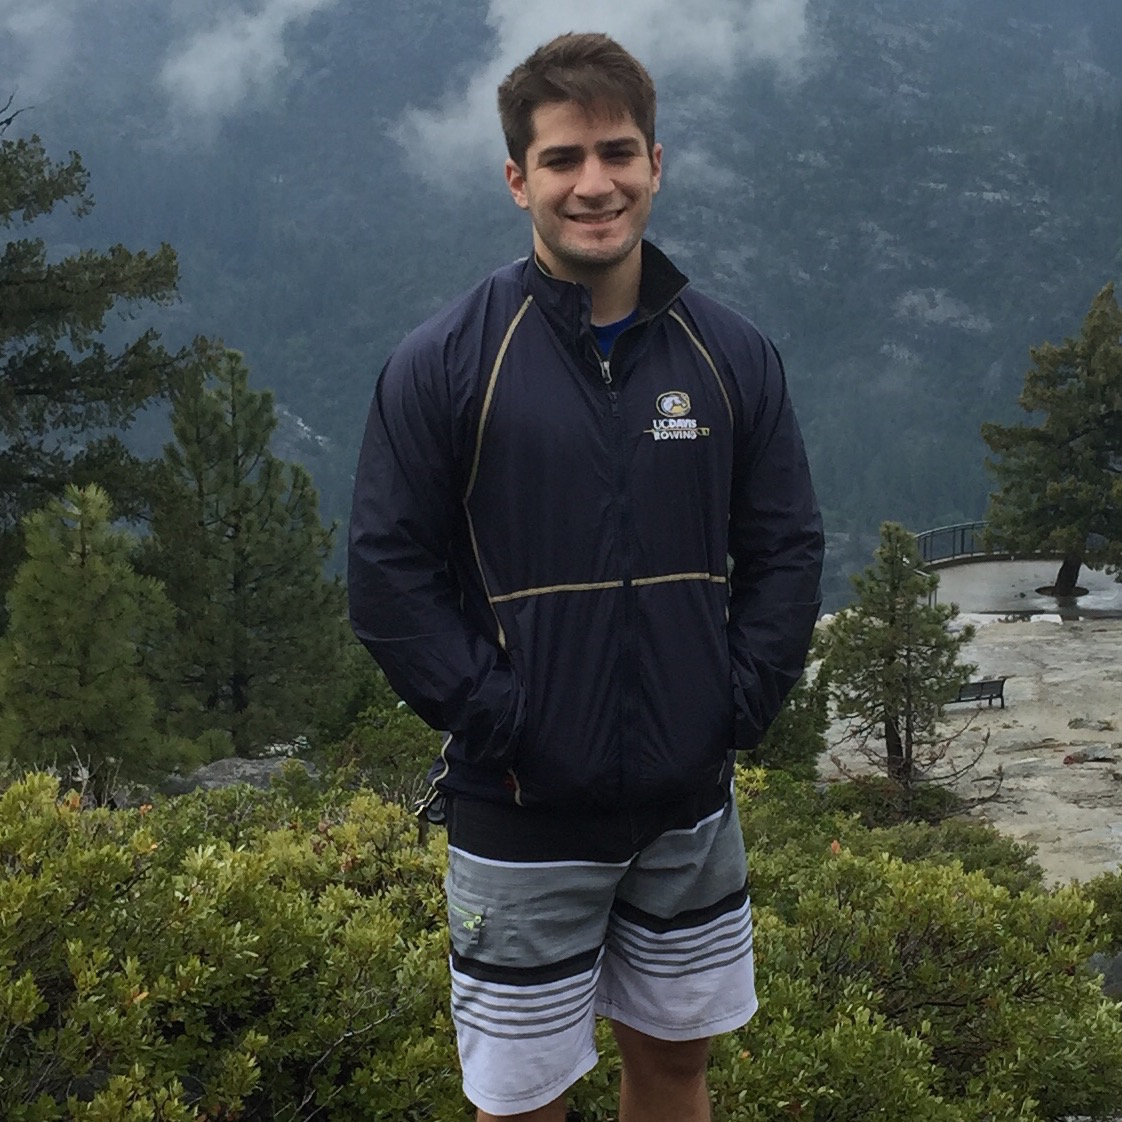
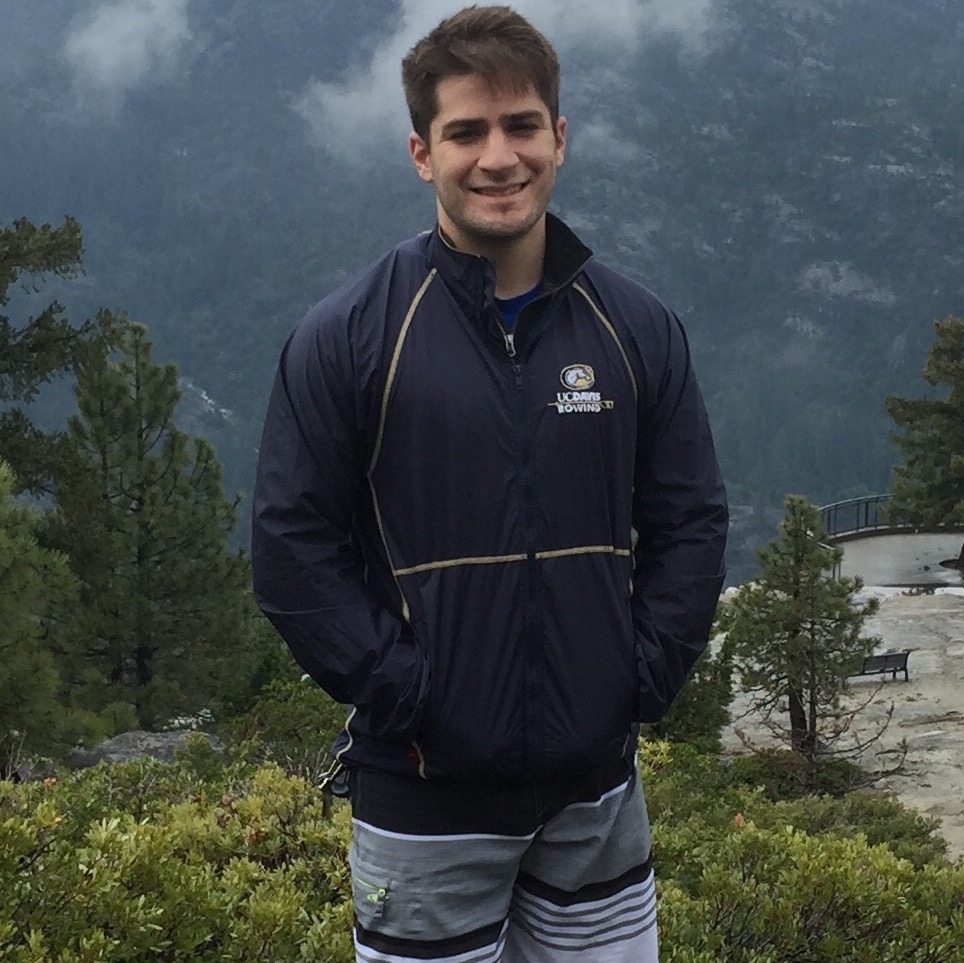
fixed text and edited picture for mobile display

diff --git a/index.html b/index.html
@@ -10,11 +10,11 @@
 <style>
   img.round {
     border: 4px solid #222;
-    height: 350px;
-    width: 350px;
-    line-height: 400px;
-    -moz-border-radius: 175px;
-    border-radius: 200px;
+    height: 260px;
+    width: 260px;
+    line-height: 320px;
+    -moz-border-radius: 130px;
+    border-radius: 160px;
     margin-top: 125px;
   }
 </style>
@@ -112,13 +112,13 @@
         I recently graduated from the University of California - Davis with my B.A. in Mechanical Engineering and a minor in Computer Science
       </p>
       <p>
-        I am both a hardware and software engineer with practical experience in both fields. The beginning of my engineering career focused primarily on mechancial design but has transitioned into an emphasis on software development. I have designed satellite scales to iOS applications.
+        I am both a hardware and software engineer with practical experience in both fields. The beginning of my engineering career focused primarily on mechancial design but has transitioned into an emphasis on software development. I have worked on projects ranging from satellite scales to consumer iOS applications.
       </p>
       <p>
-      My current intrests have been in mechatronics, iOS mobile development, backend development and utility data analysis. 
+      My current intrests are in mechatronics, iOS mobile development, backend development and utility and financial data analysis. 
       </p>
       <p>
-      I love working on interesting and exciting projects, get in <a href="mailto:alexlerikos@gmail.com?subject=Working Together">touch</a> if you want to work together and develop something cool.
+      I love a new challenge and taking on exciting projects, get in <a href="mailto:alexlerikos@gmail.com?subject=Working Together">touch</a> if you want to work together and develop something cool!
       </p> 
     </div>
 </div>
